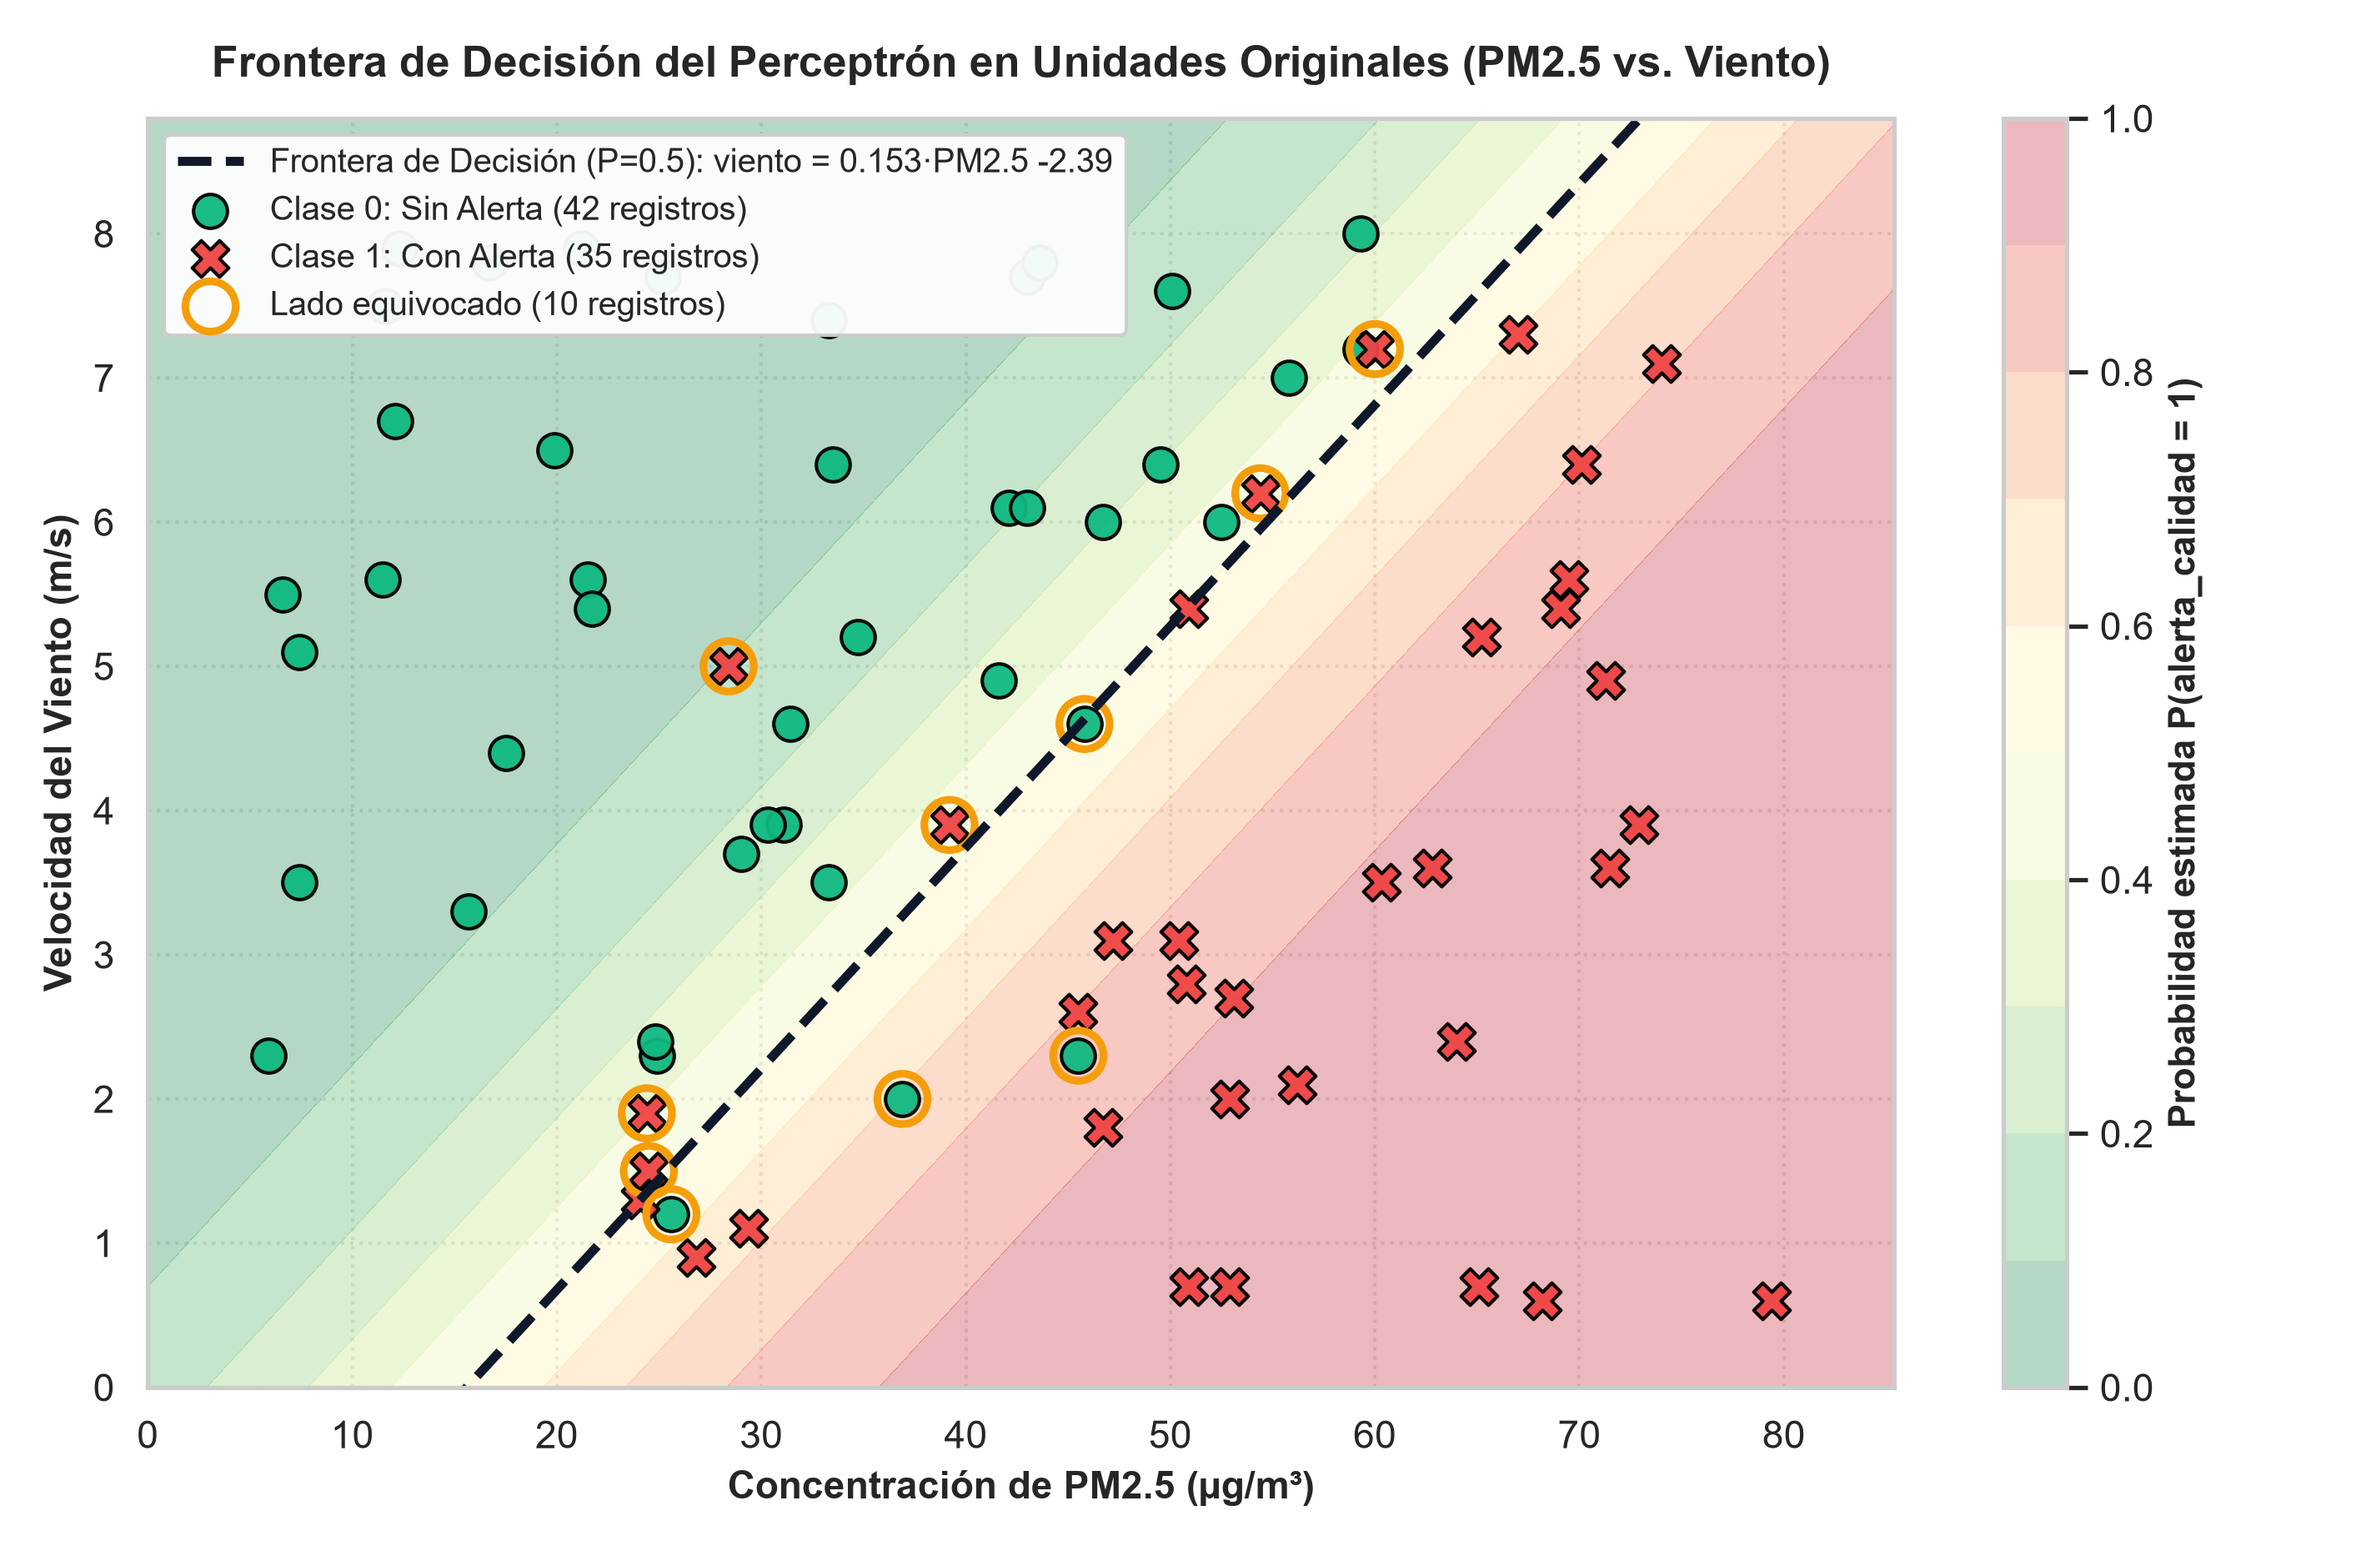
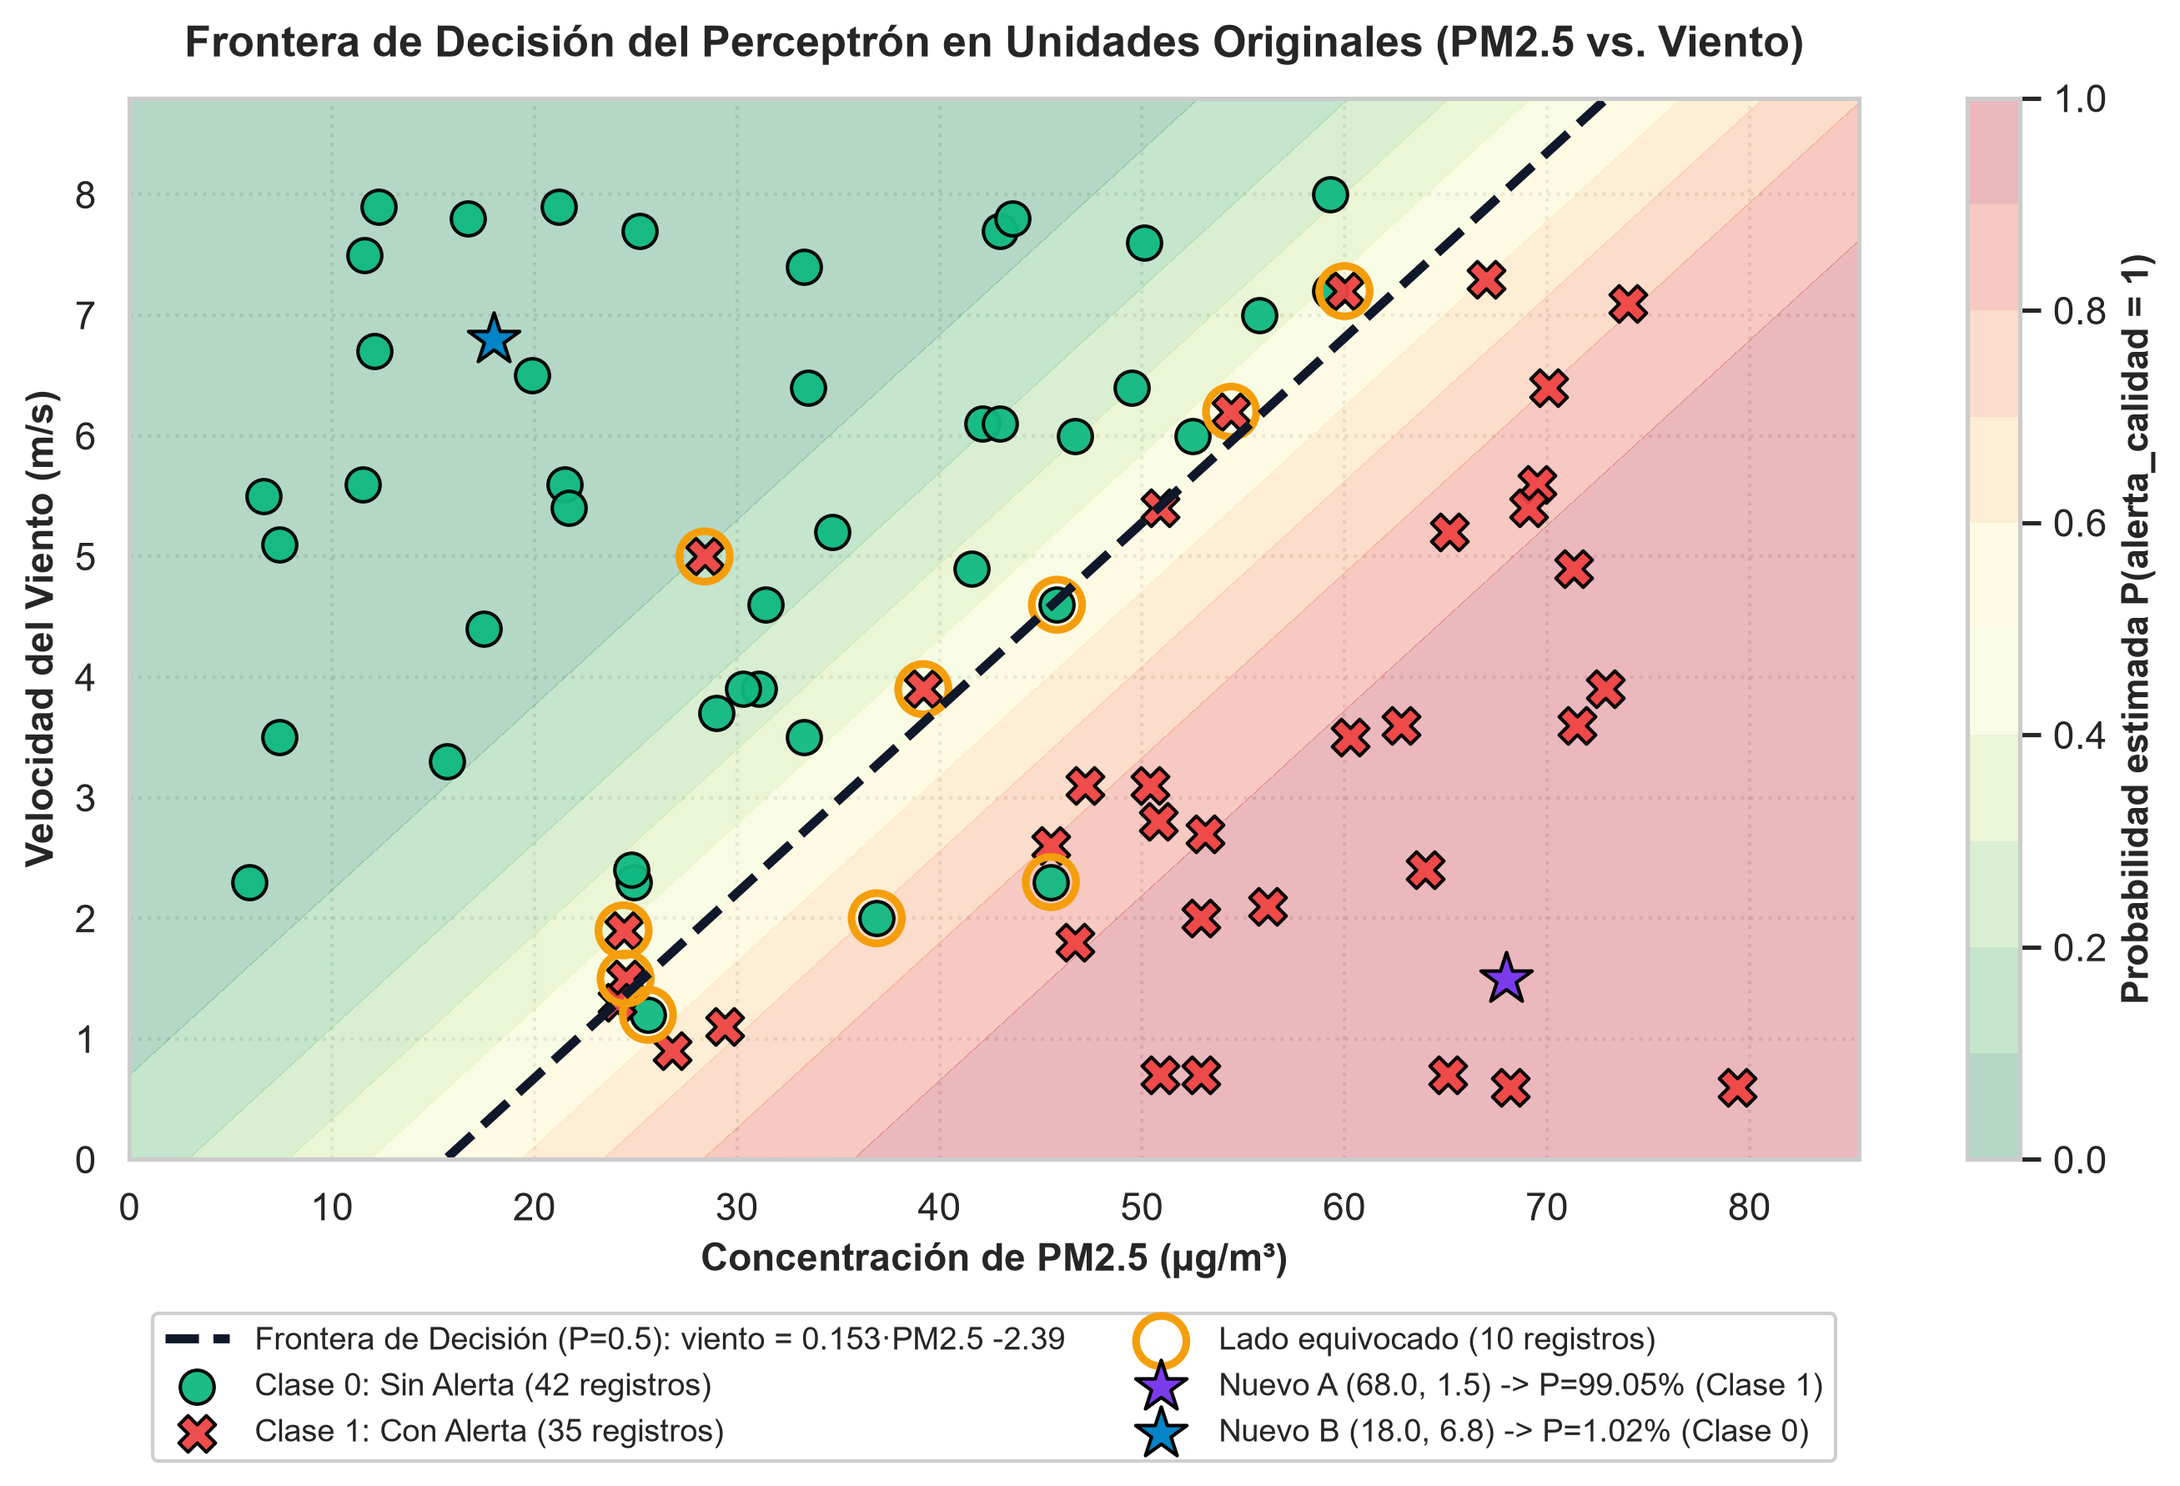
Tarea 6.3: visualizacion de los 2 nuevos registros evaluados sobre frontera_decision.png

diff --git a/src/parcial2.py b/src/parcial2.py
@@ -523,6 +523,28 @@ def tarea_5_perceptron_numpy(df_clean, base_dir):
         label=f"Lado equivocado ({mal_clasificados} registros)"
     )
 
+    # Graficar los 2 nuevos registros realistas de la Tarea 6.3
+    plt.scatter(
+        [68.0],
+        [1.5],
+        color="#7c3aed",
+        edgecolor="black",
+        s=240,
+        marker="*",
+        zorder=6,
+        label="Nuevo A (68.0, 1.5) -> P=99.05% (Clase 1)"
+    )
+    plt.scatter(
+        [18.0],
+        [6.8],
+        color="#0284c7",
+        edgecolor="black",
+        s=240,
+        marker="*",
+        zorder=6,
+        label="Nuevo B (18.0, 6.8) -> P=1.02% (Clase 0)"
+    )
+
     plt.title(
         "Frontera de Decisión del Perceptrón en Unidades Originales (PM2.5 vs. Viento)",
         fontsize=12.5,
@@ -533,12 +555,18 @@ def tarea_5_perceptron_numpy(df_clean, base_dir):
     plt.ylabel("Velocidad del Viento (m/s)", fontsize=11, weight="bold")
     plt.xlim(x1_min, x1_max)
     plt.ylim(x2_min, x2_max)
-    plt.legend(loc="upper left", fontsize=9.5, framealpha=0.95)
+    plt.legend(
+        loc="upper center",
+        bbox_to_anchor=(0.5, -0.13),
+        ncol=2,
+        fontsize=9.2,
+        framealpha=0.95
+    )
     plt.grid(True, linestyle=":", alpha=0.5)
     plt.tight_layout()
 
     ruta_frontera = os.path.join(base_dir, "frontera_decision.png")
-    plt.savefig(ruta_frontera, dpi=300)
+    plt.savefig(ruta_frontera, dpi=300, bbox_inches="tight")
     plt.close()
     print(f"[OK] Gráfico de frontera de decisión guardado en: {ruta_frontera}")
 
